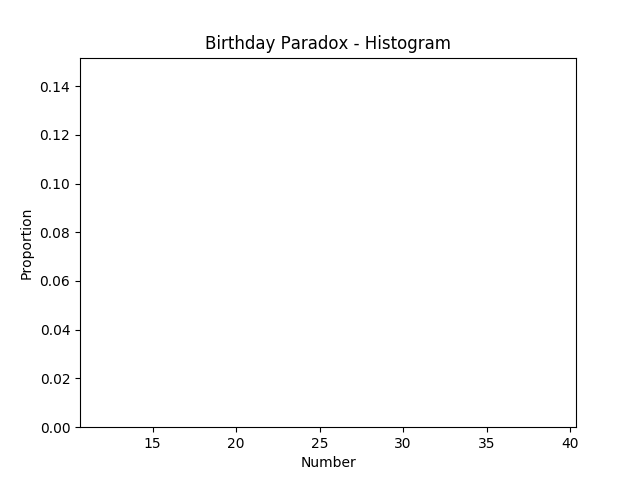
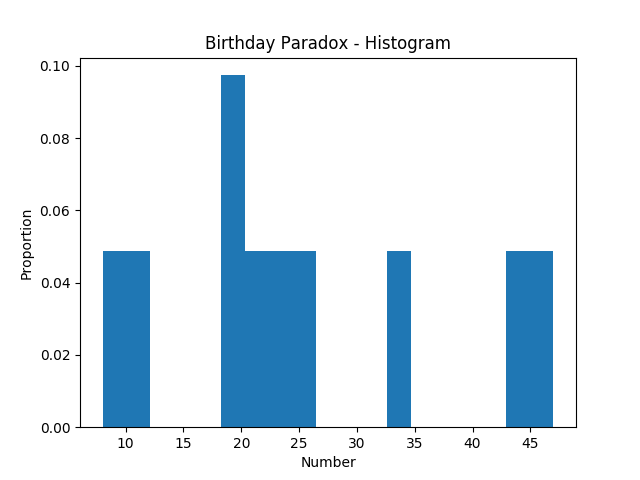
added a speedy recursive implementation of the parking problem

diff --git a/src/simulation_10/parking_problem_03.py b/src/simulation_10/parking_problem_03.py
@@ -1,47 +1,23 @@
 import sys
 
 import numpy as np
-
-
-
-def spots_available(spots, length):
-    if spots[0] >= 1.0:
-        return True
-
-    for i in range(len(spots) - 1):
-        if spots[i + 1] - spots[i] >= 2.0:
-            return True
-
-    return length - spots[-1] >= 2.0
-
-
-
-def spot_found(spot, spots, length):
-    if 0 <= spot <= spots[0] - 1.0:
-        return True
-
-    for i in range(len(spots) - 1):
-        if spots[i] + 1.0 <= spot <= spots[i + 1] - 1.0:
-            return True
-
-    return spots[-1] + 1.0 <= spot <= length - 1.0
-
-
-
-def get_parking(length):
-    return np.random.uniform(0, length - 1.0)
-
+import matplotlib.pyplot as plt
 
 
 def parking_problem(length):
-    spots  = [get_parking(length)]
+    spots = []
 
-    while spots_available(spots, length):
-        spot = get_parking(length)
+    def find_spots(start, end):
+        spot = np.random.uniform(start, end - 1.0)
+        spots.append((spot, spot + 1.0))
 
-        if spot_found(spot, spots, length):
-            spots.append(spot)
-            spots.sort()
+        if spot - start >= 1.0:
+            find_spots(start, spot)
+
+        if end - spot >= 2.0:
+            find_spots(spot + 1.0, end)
+
+    find_spots(0, length)
 
     return len(spots) / float(length)
 
@@ -80,11 +56,26 @@ def print_results(results):
 
 
 
+def plot_results(results):
+    plt.clf()
+    # plt.figure(1, facecolor = 'w')
+    plt.hist(results)
+    plt.title('Parking Problem')
+    plt.xlabel('Results')
+    plt.savefig('./src/simulation_10/images/parking_problem_%s.png' % len(results), format = 'png')
+    plt.close()
+
+
+
 def main(argv):
     iterations = int(argv[0])
     length     = int(argv[1])
 
-    print_results(simulation(iterations, length))
+    results    = simulation(iterations, length)
+
+    print_results(results)
+    plot_results(results)
+
 
 
 

diff --git a/src/simulation_10/parking_problem_01.py b/src/simulation_10/parking_problem_01.py
@@ -1,21 +1,18 @@
 import sys
-import random
 
 import numpy as np
 
 
-SCALE = 100000
-
 
 def spots_available(spots, length):
-    if spots[0, 0] >= SCALE:
+    if spots[0, 0] >= 1.0:
         return True
 
     for i in range(spots.shape[0] - 1):
-        if spots[i + 1, 0] - spots[i, 1] >= SCALE:
+        if spots[i + 1, 0] - spots[i, 1] >= 1.0:
             return True
 
-    return length - spots[-1, 1] >= SCALE
+    return length - spots[-1, 1] >= 1.0
 
 
 
@@ -32,19 +29,18 @@ def spot_found(spot, spots, length):
 
 
 def get_parking(length):
-    spot = np.random.randint(length - SCALE)
-    return np.array([[spot, spot + SCALE]])
+    spot = np.random.uniform(0, length - 1.0)
+    return np.array([[spot, spot + 1.0]])
 
 
 
 def parking_problem(length):
-    scaled = length * SCALE
-    spots  = get_parking(scaled)
+    spots  = get_parking(length)
 
-    while spots_available(spots, scaled):
-        spot = get_parking(scaled)
+    while spots_available(spots, length):
+        spot = get_parking(length)
 
-        if spot_found(spot, spots, scaled):
+        if spot_found(spot, spots, length):
             spots = np.concatenate((spots, spot))
             spots = spots[spots[:, 0].argsort()]
 
@@ -79,8 +75,8 @@ def print_results(results):
     print()
     print('       Distribution:')
     print()
-    print('               mean: %0.4g' % np.mean(results))
-    print(' standard deviation: %0.4g' % np.std(results))
+    print('               mean: %0.10g' % np.mean(results))
+    print(' standard deviation: %0.10g' % np.std(results))
     print()
 
 

diff --git a/src/simulation_03/birthday_paradox_02.py b/src/simulation_03/birthday_paradox_02.py
@@ -48,7 +48,7 @@ def print_prob(numbers, people):
 def plot_results(numbers):
     plt.clf()
     plt.figure(1, facecolor = 'w')
-    plt.hist(numbers, color = 'white', bins = int((np.max(numbers) - np.min(numbers)) / 2), normed = True)
+    plt.hist(numbers, bins = int((np.max(numbers) - np.min(numbers)) / 2), normed = True)
     plt.title('Birthday Paradox - Histogram')
     plt.xlabel('Number')
     plt.ylabel('Proportion')
